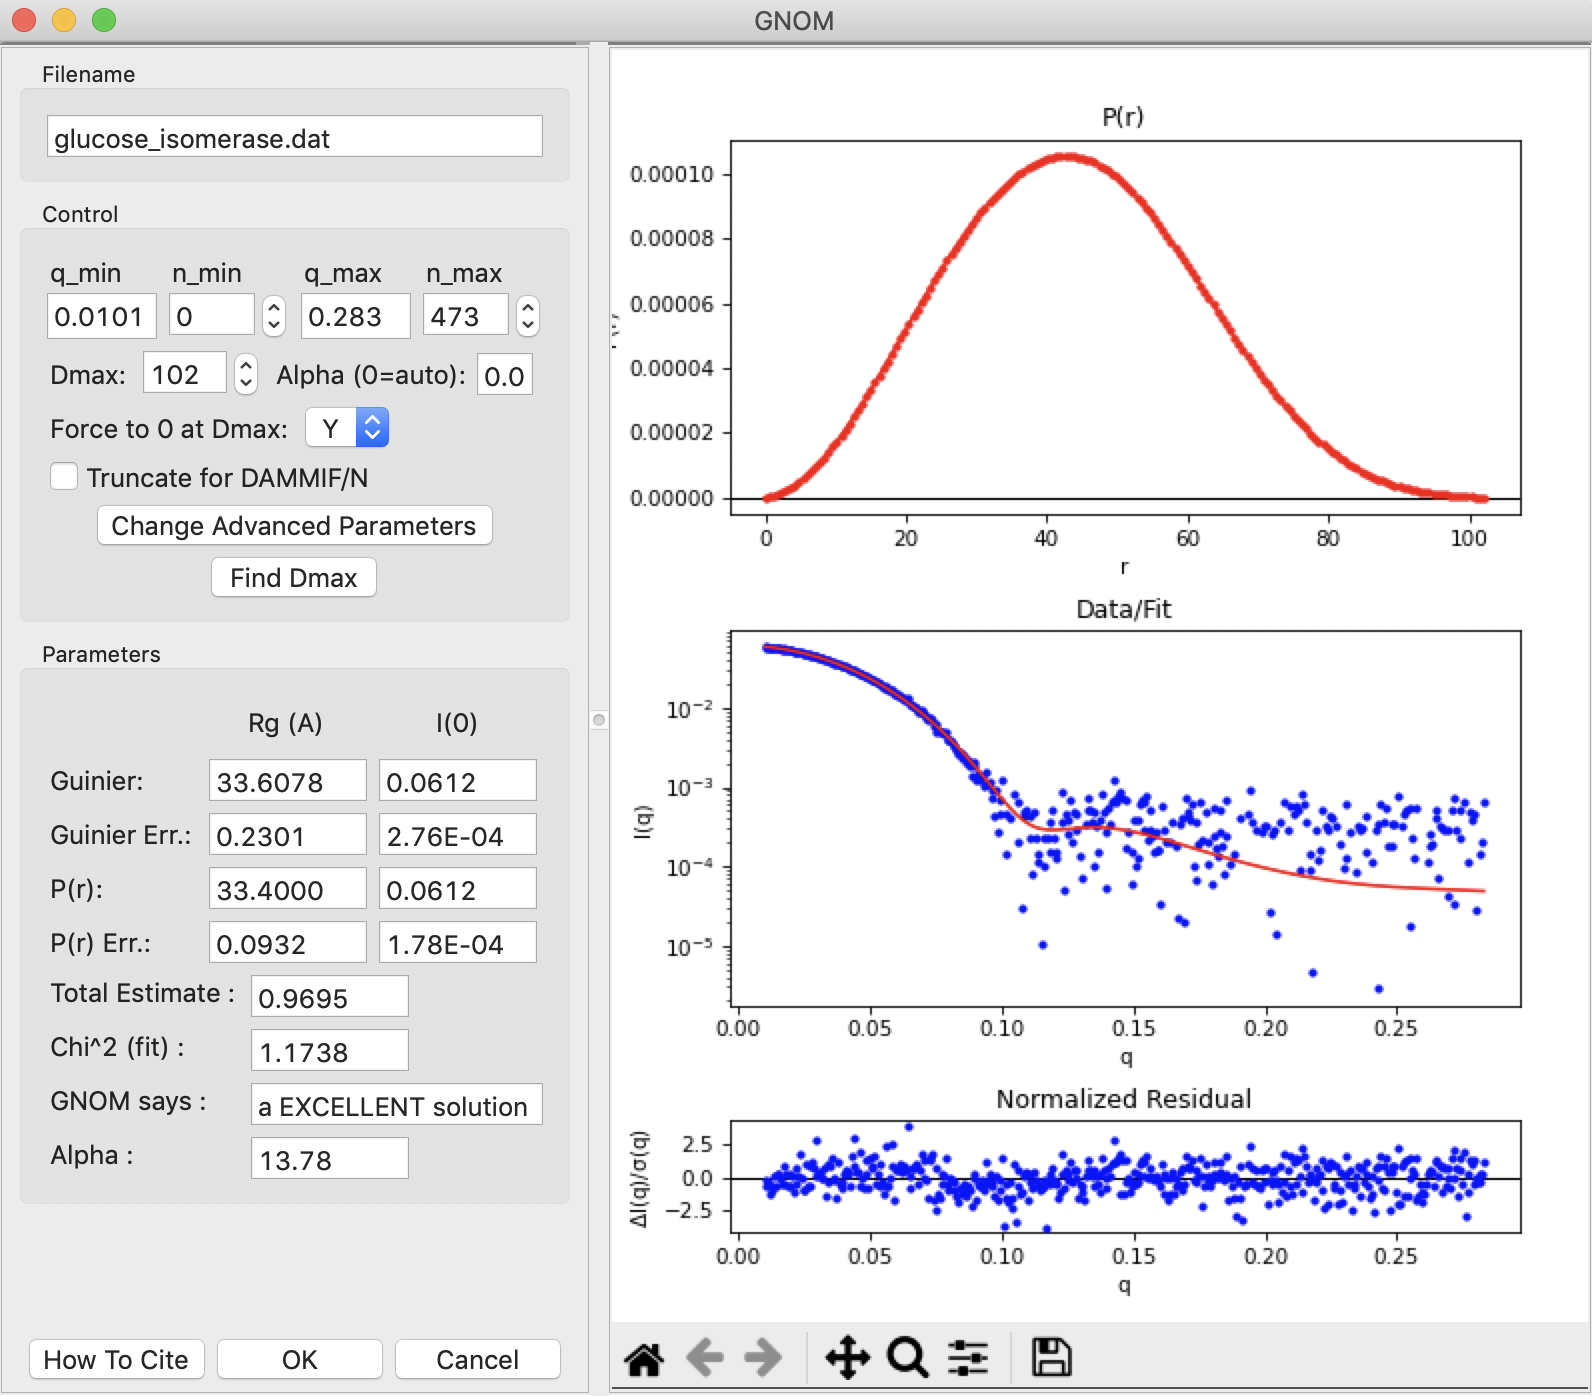
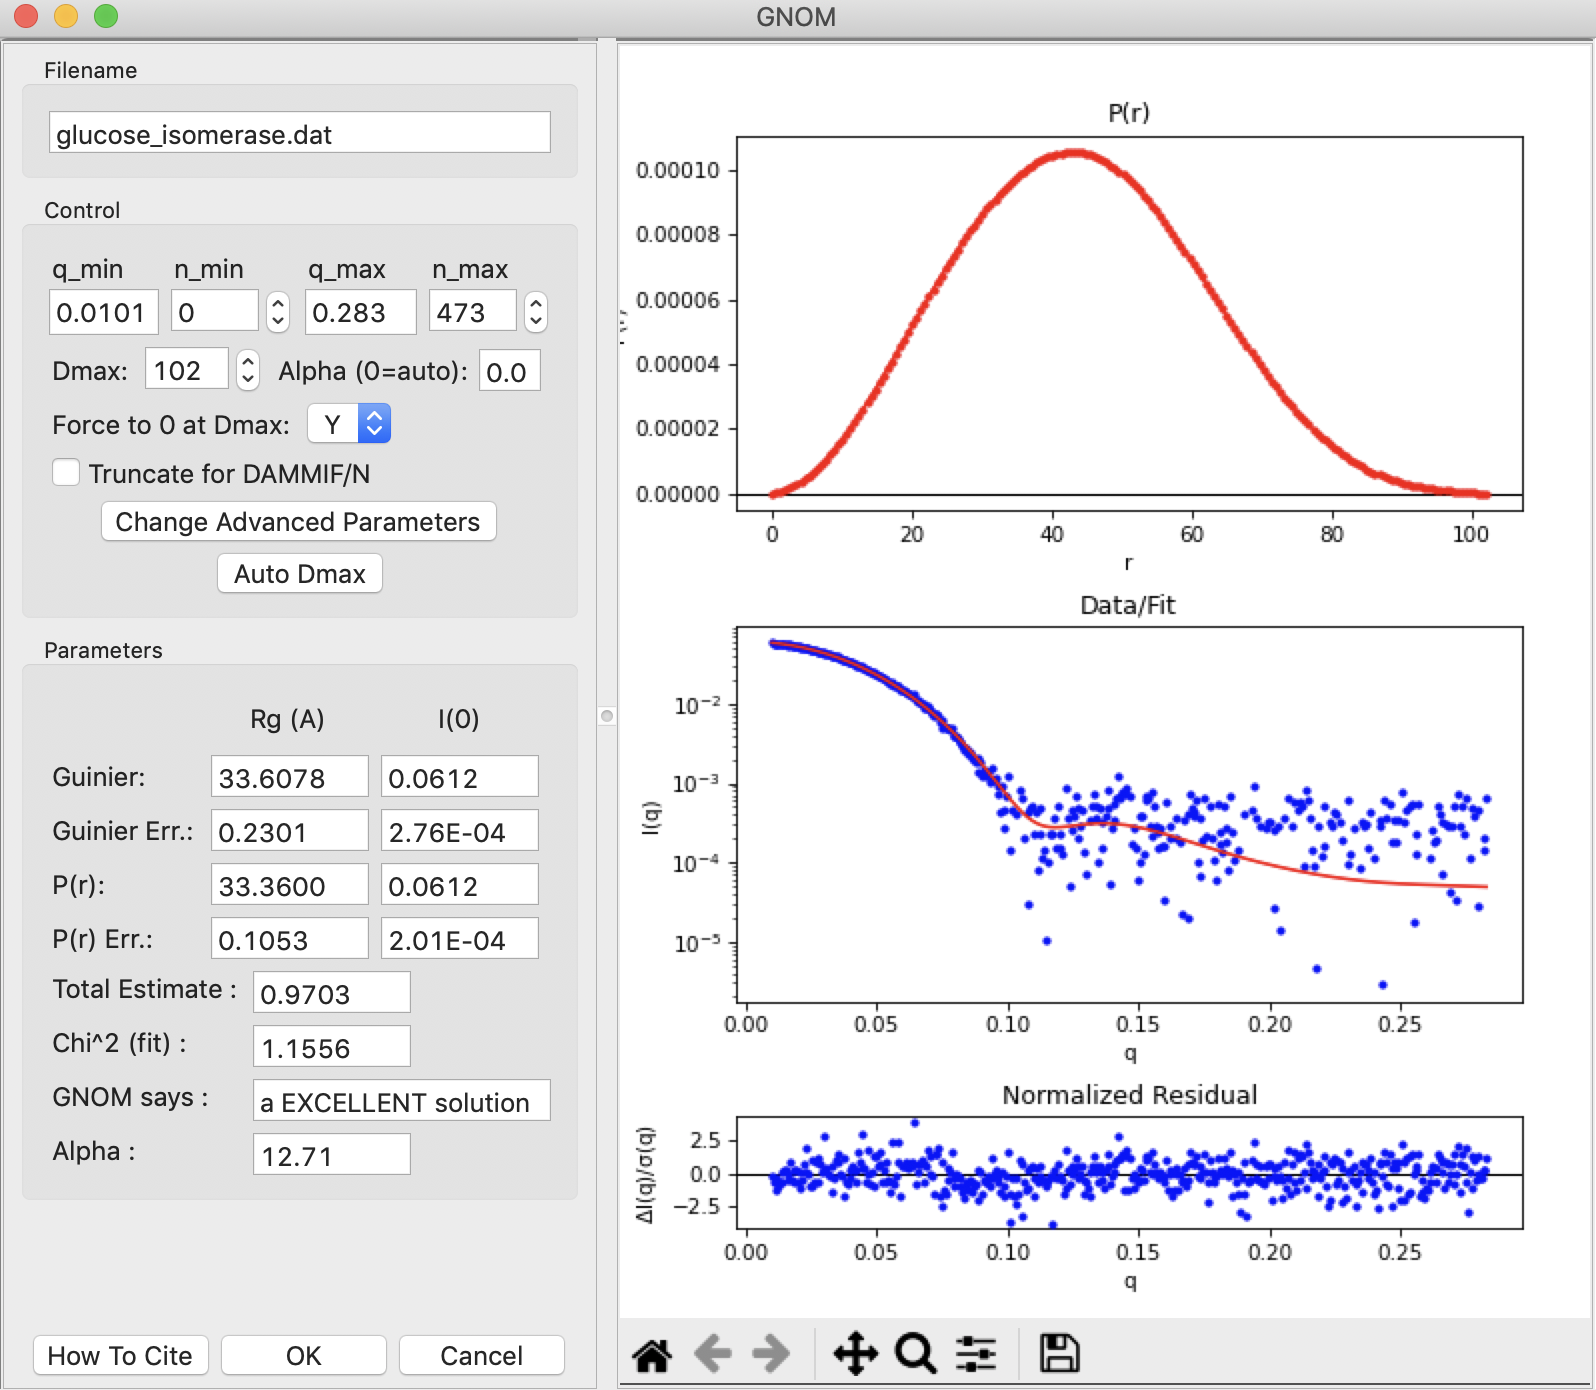
Updated API documentation and changes.

diff --git a/bioxtasraw/SECM.py b/bioxtasraw/SECM.py
@@ -110,6 +110,19 @@ class SECM(object):
         define a sample range consisting of two sub-ranges, the first from
         profiles 0-10 in the series and the second from profiles 100-110
         in the series.
+    use_subtracted_sasm: list
+        A list of bools defining which frames should be used when calculating
+        Rg, MW. This is based on how the total intensity in the frame compares
+        to the average intensity of the buffer region. If the intensity ratio
+        of a profile divided by the average buffer profile is greater than
+        the threshold defined in the RAW settings, that frame is used
+        to calculate Rg and MW, otherwise it is not. This is simply to
+        increase speed of calculation by not trying to calculate these
+        parametesr for buffer data.
+    use_baseline_subtracted_sasm: list
+        As use_subtracted_sasm, but for the baseline corrected profiles (if
+        available).
+
     """
 
     def __init__(self, file_list, sasm_list, frame_list, parameters, settings):

diff --git a/bioxtasraw/RAWAnalysis.py b/bioxtasraw/RAWAnalysis.py
@@ -4406,7 +4406,7 @@ class GNOMControlPanel(wx.Panel):
         advancedParams = wx.Button(self, -1, 'Change Advanced Parameters')
         advancedParams.Bind(wx.EVT_BUTTON, self.onChangeParams)
 
-        find_dmax = wx.Button(self, -1, 'Find Dmax')
+        find_dmax = wx.Button(self, -1, 'Auto Dmax')
         find_dmax.Bind(wx.EVT_BUTTON, self.onFindDmaxButton)
 
 
@@ -8339,7 +8339,6 @@ class DenssRunPanel(wx.Panel):
 
         shrinkwrap_sigma_start_in_A = (3.0 * dmax / 64.0) * 3.0
         shrinkwrap_sigma_end_in_A = (3.0 * dmax / 64.0) * 1.5
-        shrinkwrap_threshold_fraction = 0.2
 
         if self.denss_settings['mode'] == 'Fast':
             self.denss_settings['swMinStep'] = 1000

diff --git a/bioxtasraw/RAWAPI.py b/bioxtasraw/RAWAPI.py
@@ -4049,7 +4049,6 @@ def denss(ift, prefix, datadir, mode='Slow', symmetry=0, sym_axis='X',
 
     shrinkwrap_sigma_start_in_A = (3.0 * D / 64.0) * 3.0
     shrinkwrap_sigma_end_in_A = (3.0 * D / 64.0) * 1.5
-    shrinkwrap_threshold_fraction = 0.2
 
     if denss_settings['mode'] == 'Fast':
         denss_settings['swMinStep'] = 1000

diff --git a/docs/source/api/ex_analyze_profile.rst b/docs/source/api/ex_analyze_profile.rst
@@ -52,37 +52,48 @@ Calculate IFTs
     (gi_bift, gi_bift_dmax, gi_bift_rg, gi_bift_i0, gi_bift_dmax_err,
         gi_bift_rg_err, gi_bift_i0_err, gi_bift_chi_sq, gi_bift_log_alpha,
         gi_bift_log_alpha_err, gi_bift_evidence,
-        gi_bift_evidence_err) = raw.bift(gi_prof, settings=settings)
+        gi_bift_evidence_err) = raw.bift(gi_prof, settings=settings, single_proc=True)
 
 
-    #Calculate the IFT using GNOM
+    #Calculate the IFT using DATGNOM
     (gi_datgnom_ift, gi_datgnom_dmax, gi_datgnom_rg, gi_datgnom_i0,
         gi_datgnom_rg_err, gi_datgnom_i0_err, gi_datgnom_total_est,
         gi_datgnom_chi_sq, gi_datgnom_alpha, gi_datgnom_quality) = raw.datgnom(gi_prof)
 
 
-Save the profile and IFTs
-++++++++++++++++++++++++++++
+    #Use the auto_dmax function to find the best Dmax and then calculate the IFT using GNOM
+    dmax = raw.auto_dmax(gi_prof)
+
+    (gi_gnom_ift, gi_gnom_dmax, gi_gnom_rg, gi_gnom_i0, gi_gnom_rg_err,
+        gi_gnom_i0_err, gi_gnom_total_est, gi_gnom_chi_sq, gi_gnom_alpha,
+        gi_gnom_quality) = raw.gnom(gi_prof, dmax)
+
+
+Save the profile, IFTs, and analysis summary
+++++++++++++++++++++++++++++++++++++++++++++++
 
 .. code-block:: python
 
-    #Save the profile and IFTs
+    #Save the profile, IFTs, and analysis summary
     if not os.path.exists('./api_results'):
         os.mkdir('./api_results')
 
     raw.save_profile(gi_prof, 'gi.dat', './api_results')
-    raw.save_ift(gi_datgnom_ift, 'gi.out', './api_results')
     raw.save_ift(gi_bift, 'gi.ift', './api_results')
+    raw.save_ift(gi_gnom_ift, 'gi.out', './api_results')
 
-
-    #Calculate the ambiguity using AMBIMETER
-    a_score, a_cats, a_eval = raw.ambimeter(gi_datgnom_ift)
+    raw.save_report('gi_report.pdf', './api_results', [gi_prof],
+        [gi_gnom_ift, gi_bift])
 
 
 Create a bead model reconstruction
 +++++++++++++++++++++++++++++++++++
 
 .. code-block:: python
+
+    #Calculate the ambiguity using AMBIMETER
+    a_score, a_cats, a_eval = raw.ambimeter(gi_gnom_ift)
+
 
     #Create individual bead model reconstructions
     if not os.path.exists('./api_results/gi_dammif'):
@@ -99,7 +110,7 @@ Create a bead model reconstruction
     ev_vals = []
 
     for i in range(5):
-        chi_sq, rg, dmax, mw, ev = raw.dammif(gi_datgnom_ift,
+        chi_sq, rg, dmax, mw, ev = raw.dammif(gi_gnom_ift,
             'gi_{:02d}'.format(i+1), './api_results/gi_dammif', mode='Fast')
 
         chi_sq_vals.append(chi_sq)
@@ -123,7 +134,7 @@ Create a bead model reconstruction
 
 
     #Refine the bead model
-    chi_sq, rg, dmax, mw, ev = raw.dammin(gi_datgnom_ift, 'refine_gi',
+    chi_sq, rg, dmax, mw, ev = raw.dammin(gi_gnom_ift, 'refine_gi',
         './api_results/gi_dammif', 'Refine',
         initial_dam='gi_damstart.pdb')
 
@@ -157,8 +168,8 @@ Create an electron density reconstruction
 
     for i in range(5):
         (rho, chi_sq, rg, support_vol, side, q_fit, I_fit, I_extrap,
-            err_extrap) = raw.denss(gi_datgnom_ift, 'gi_{:02d}'.format(i+1),
-            './api_results/gi_denss', mode='Fast')
+            err_extrap, all_chi_sq, all_rg, all_support_vol) = raw.denss(gi_gnom_ift,
+            'gi_{:02d}'.format(i+1), './api_results/gi_denss', mode='Fast')
 
         rhos.append(rho)
         chi_vals.append(chi_sq)
@@ -177,7 +188,8 @@ Create an electron density reconstruction
     #Refine the electron density
     (refined_rho, refined_chi_sq, refined_rg, refined_support_vol, refined_side,
         refined_q_fit, refined_I_fit, refined_I_extrap,
-        refined_err_extrap) = raw.denss(gi_datgnom_ift, 'gi_refine',
+        refined_err_extrap, all_chi_sq, all_rg,
+        all_support_vol) = raw.denss(gi_gnom_ift, 'gi_refine',
         './api_results/gi_denss', mode='Fast',
         initial_model=average_rho)
 

diff --git a/docs/source/changes.rst b/docs/source/changes.rst
@@ -13,7 +13,7 @@ The RAW team is pleased to announce the release of RAW version 2.1.0. This
 has the release of two major new features:
 
 *   Analysis reports on your data can now be saved as PDFs.
-*   The release of a GUI for the REGALS technique, a new way to deconvole
+*   The release of a GUI for the REGALS technique, a new way to deconvolve
     overlapping LC-SAXS peaks. REGALS can be considered an extension and
     enhancement of EFA.
 
@@ -47,10 +47,10 @@ All changes:
     including better accuracy, better handling of low quality data, and better
     handling of poorly formatted data.
 *   Fixed a bug in the API where running EFA would change the associated ranges.
-*   Fixed a bug in the API that would cause BIFT to fail.
+*   Fixed a bug in the API that could cause BIFT to fail.
 *   Fixed a bug where if previous EFA ranges were available they wouldn't be
     properly set when the EFA window was opened.
-*   Added a feture to the API to truncate an IFT for dammif using either 8/rg
+*   Added a feature to the API to truncate an IFT for dammif using either 8/rg
     or 0.3, whichever is smaller.
 *   Fixed a bug in the API that could cause GNOM to fail to run.
 *   The DENSS function in the API now returns chi squared, rg, and support
@@ -79,6 +79,28 @@ All changes:
 *   Added ability to read in a fourth dQ column in .dat files, preserve the dQ
     values through analysis and saving. Note that merging and interpolating
     do not preserve the dQ values at this time.
+*   Added ability to read in CRYSOL 3 .int files.
+*   Fixed an off by one bug that could affect SVD/EFA/REGALS
+*   Fixed a bug where settings could fail to save or load on Windows if they included
+    non-ascii characters
+*   Fixed a bug where calculating the corrected Porod volume MW could return an error
+*   EFA now remembers the force positive settings for concentration.
+*   Fixed a bug where if an EFA range was listed high to low it would cause an
+    error.
+*   Fixed a bug where scaling q by 10x or 0.1x only worked once (i.e. you could
+    scale to 0.1x or 10x, but not 100x, and couldn't go back to 1x after
+    applying a scale).
+*   Fixed a bug where the linear baseline wasn't getting a good start value.
+*   GNOM window now 'truncates for dammif/n', which truncates to the smaller
+    of 8/Rg or 0.3.
+*   Guinier window now opens faster.
+*   Updated DENSS to version 1.6.3.
+*   Fixed a bug where multiple DENSS windows couldn't be used at the same time.
+*   Fixed a bug where subtracted and baseline corrected profiles from the LC
+    Series Analysis window would have the prefix of the individual profiles in
+    the series, rather than the series itself.
+*   Fixed some possible memory leaks related to dialog creation/destruction.
+*   Added a number of new tests.
 
 
 2.0.3

diff --git a/docs/source/api/ex_sec_saxs.rst b/docs/source/api/ex_sec_saxs.rst
@@ -192,11 +192,11 @@ useful at the moment, it almost always returns invalid.
         other_results) = raw.validate_baseline_range(series, [539, 568],
         [817, 846])
 
-Carrying out SVD and EFA
-+++++++++++++++++++++++++
+Carrying out SVD, EFA, and REGALS
+++++++++++++++++++++++++++++++++++
 
-You can carry out SVD and EFA from the API (though without the GUI you have
-to know what the appropriate ranges are for each EFA component as input).
+You can carry out SVD, EFA, and REGALS from the API (though without the GUI
+you have to know what the appropriate ranges are for each EFA component as input).
 
 .. code-block:: python
 
@@ -213,3 +213,70 @@ to know what the appropriate ranges are for each EFA component as input).
 
     (efa_profiles, efa_converged, efa_conv_data,
         efa_rotation_data) = raw.efa(phehc_series, efa_ranges)
+
+    # Do REGALS
+    prof1_settings = {
+        'type'          : 'simple',
+        'lambda'        : 0.0,
+        'auto_lambda'   : True,
+        'kwargs'        : {},
+        }
+
+    conc1_settings = {
+        'type'          : 'smooth',
+        'lambda'        : 1.0,
+        'auto_lambda'   : True,
+        'kwargs'                : {
+            'xmin'              : 145,
+            'xmax'              : 195,
+            'Nw'                : 50,
+            'is_zero_at_xmin'   : True,
+            'is_zero_at_xmax'   : True,
+            }
+        }
+
+    prof2_settings = {
+        'type'          : 'simple',
+        'lambda'        : 0.0,
+        'auto_lambda'   : True,
+        'kwargs'        : {},
+        }
+
+    conc2_settings = {
+        'type'          : 'smooth',
+        'lambda'        : 3.0e3,
+        'auto_lambda'   : False,
+        'kwargs'                : {
+            'xmin'              : 160,
+            'xmax'              : 325,
+            'Nw'                : 50,
+            'is_zero_at_xmin'   : True,
+            'is_zero_at_xmax'   : True,
+            }
+        }
+
+    prof3_settings = {
+        'type'          : 'simple',
+        'lambda'        : 0.0,
+        'auto_lambda'   : True,
+        'kwargs'        : {},
+        }
+
+    conc3_settings = {
+        'type'          : 'smooth',
+        'lambda'        : 1.0,
+        'auto_lambda'   : True,
+        'kwargs'                : {
+            'xmin'              : 320,
+            'xmax'              : 383,
+            'Nw'                : 50,
+            'is_zero_at_xmin'   : True,
+            'is_zero_at_xmax'   : True,
+            }
+        }
+
+    comp_settings = [(prof1_settings, conc1_settings),
+        (prof2_settings, conc2_settings), (prof3_settings, conc3_settings)]
+
+    regals_profiles, regals_ifts, mixture, params, residual = raw.regals(phehc_series,
+        comp_settings)

diff --git a/docs/source/tutorial/s3_masking.rst b/docs/source/tutorial/s3_masking.rst
@@ -50,10 +50,10 @@ The written version of the tutorial follows.
         it and selecting resize.
 
     *   *Tip:* You can create a rectangle of defined position and size by entering
-        the x and y coordiantes of the bottom left corner and the width and
+        the x and y coordinates of the bottom left corner and the width and
         height of the rectangle then clicking 'Create'.
 
-#.  If the mask is not perfectly centered, click and drag it until it's centere.d
+#.  If the mask is not perfectly centered, click and drag it until it's centered.
 
 #.  If the mask is too large or small once centered, right click and click resize.
     Then move the mouse pointer to resize the mask, and click once to set the new size.
@@ -69,7 +69,7 @@ The written version of the tutorial follows.
     finish the map.
 
     *   *Tip:* Each click in a polygon mask adds a new point, which defines a
-        line segement between it and the previous point.
+        line segment between it and the previous point.
 
     |masking_circle_png|
 

diff --git a/docs/source/api/getting_started.rst b/docs/source/api/getting_started.rst
@@ -49,9 +49,9 @@ into 1D scattering profiles. This is easily accomplished with the API.
 
 .. code-block:: python
 
-    #Define a list of image filenames to load.
-    buffer_images = ['./standards_data/GI2_A9_19_001_0000.tiff',
-        './standards_data/GI2_A9_19_001_0000.tiff']
+    ##Define a list of image filenames to load.
+    buffer_images = ['./standards_data/GIbuf2_A9_18_001_0000.tiff',
+        './standards_data/GIbuf2_A9_18_001_0001.tiff']
 
     #Load and radially average images
     profiles, imgs = raw.load_and_integrate_images(buffer_images, my_settings)

diff --git a/docs/source/tutorial/s2_gnom.rst b/docs/source/tutorial/s2_gnom.rst
@@ -59,7 +59,7 @@ The written version of the tutorial follows.
 
     *   *Note:* |Dmax| is in units of Å.
 
-#.  Return the |Dmax| value to that found by DATGNOM by clicking the "Find Dmax" button.
+#.  Return the |Dmax| value to that found by DATGNOM by clicking the "Auto Dmax" button.
     |Dmax| should be 102. By default, GNOM forces the P(r) function to zero at |Dmax|.
     For a high quality data set and a good choice of |Dmax|, P(r) should go to zero
     naturally. Change the “Force to 0 at Dmax” option to “N”.
